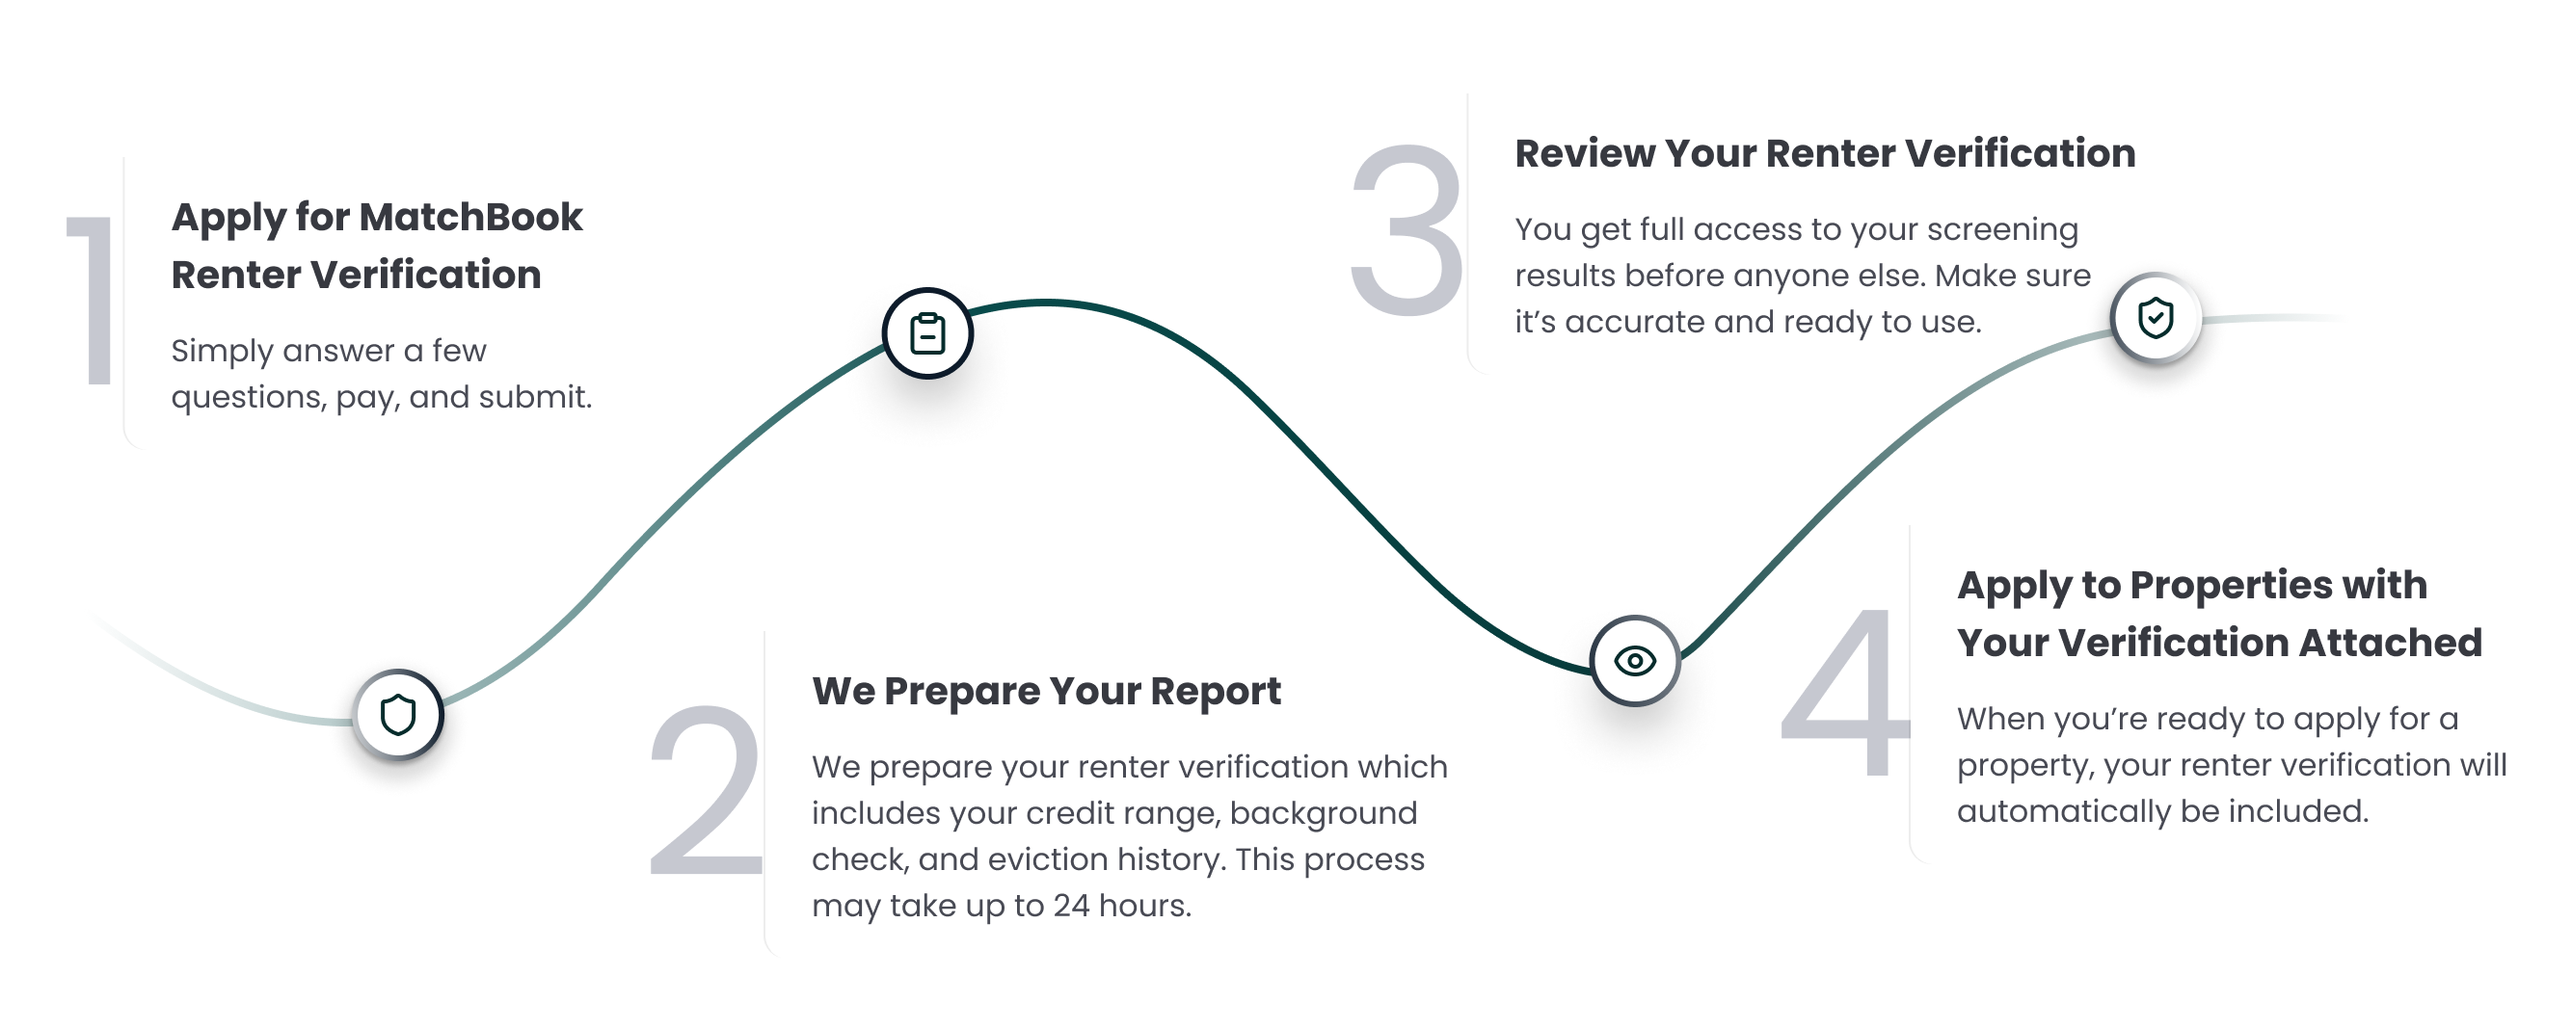
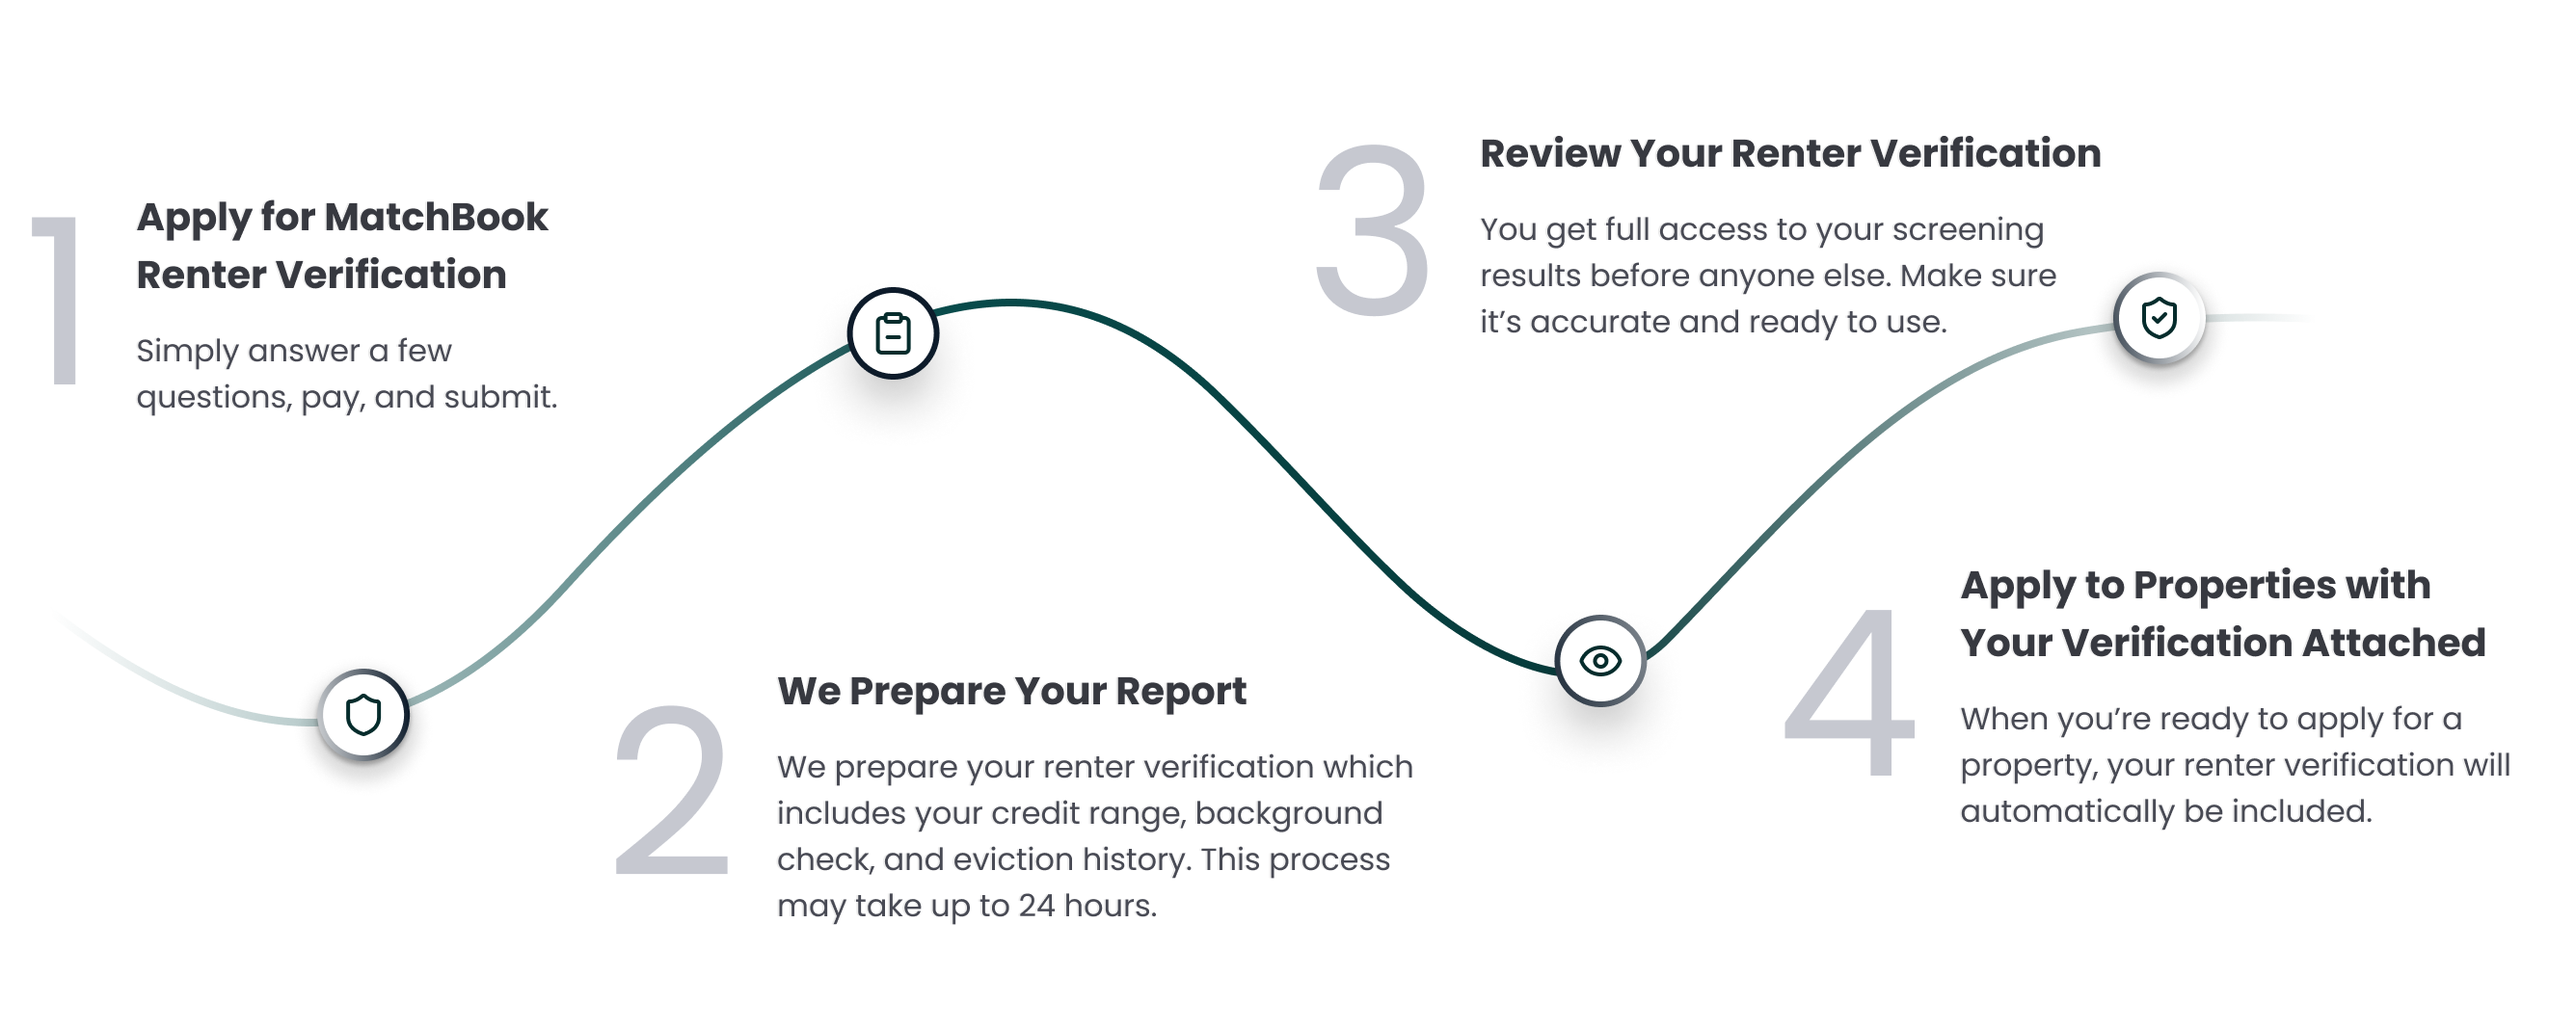
update: verification marketing image and background color
- Replace how-it-works.png with updated version and backup old version
- Change CSS background variable from solid white to HSL value for consistency

diff --git a/src/app/globals.css b/src/app/globals.css
@@ -14,7 +14,7 @@
     --sab: env(safe-area-inset-bottom);
     --sal: env(safe-area-inset-left);
 
-    --background: white;
+    --background: 0 100% 99.6%;
     /*--background: 0 100% 99.2%;*/
     --foreground: 0 0% 25.1%;
 
